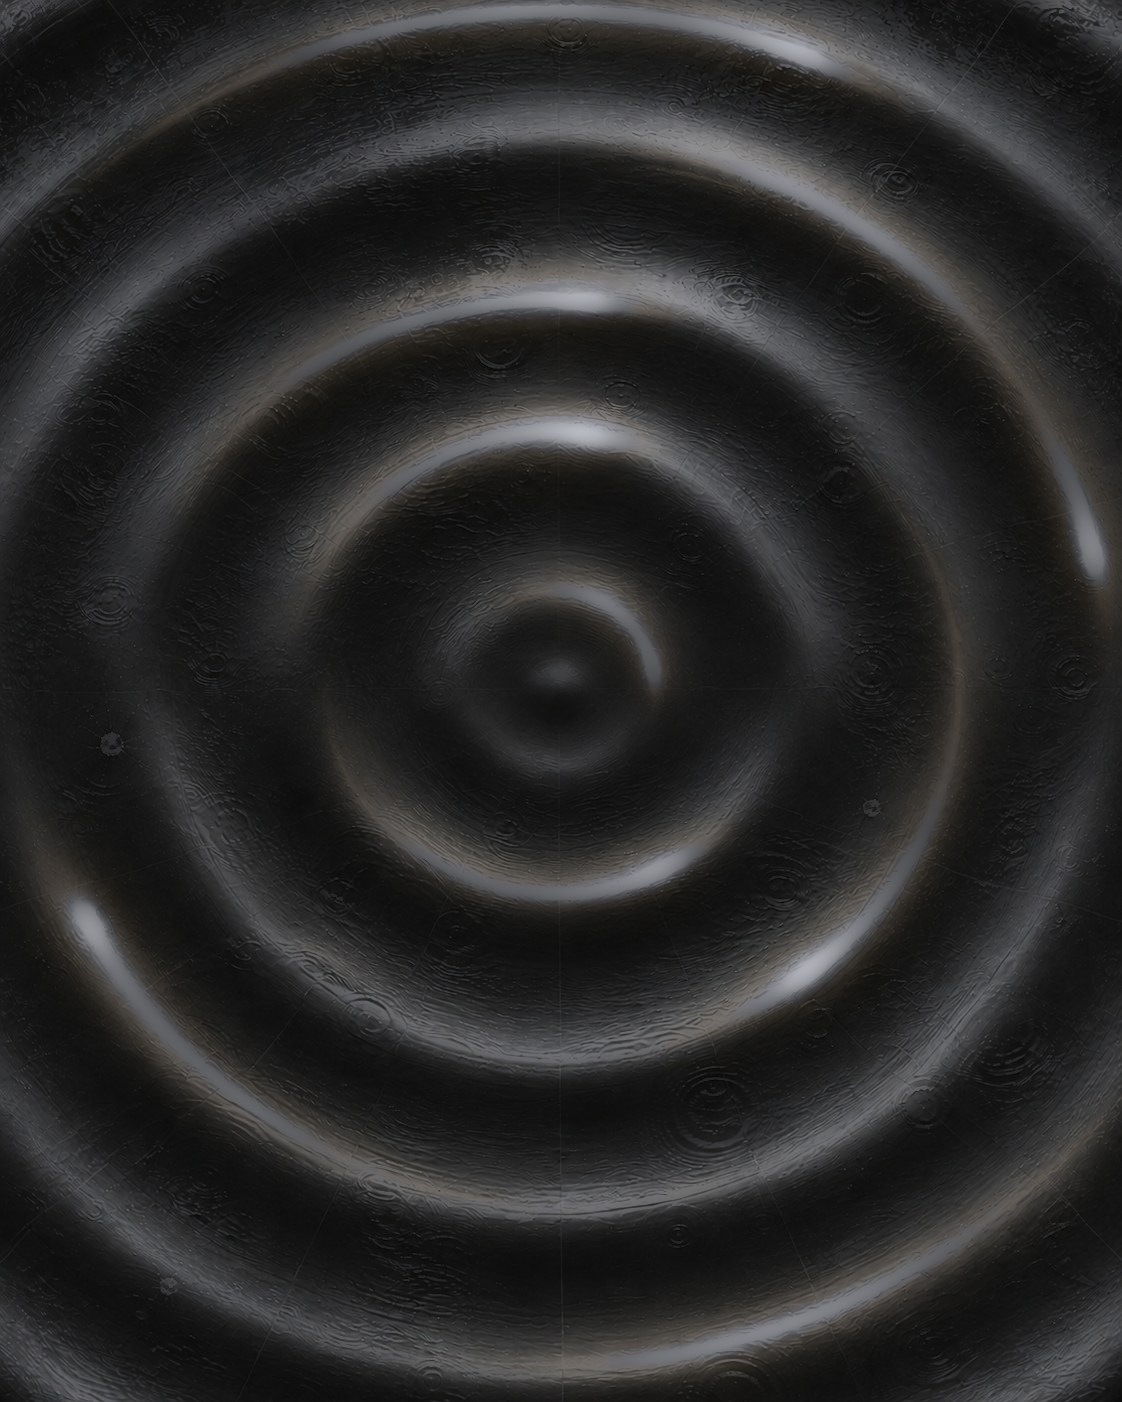
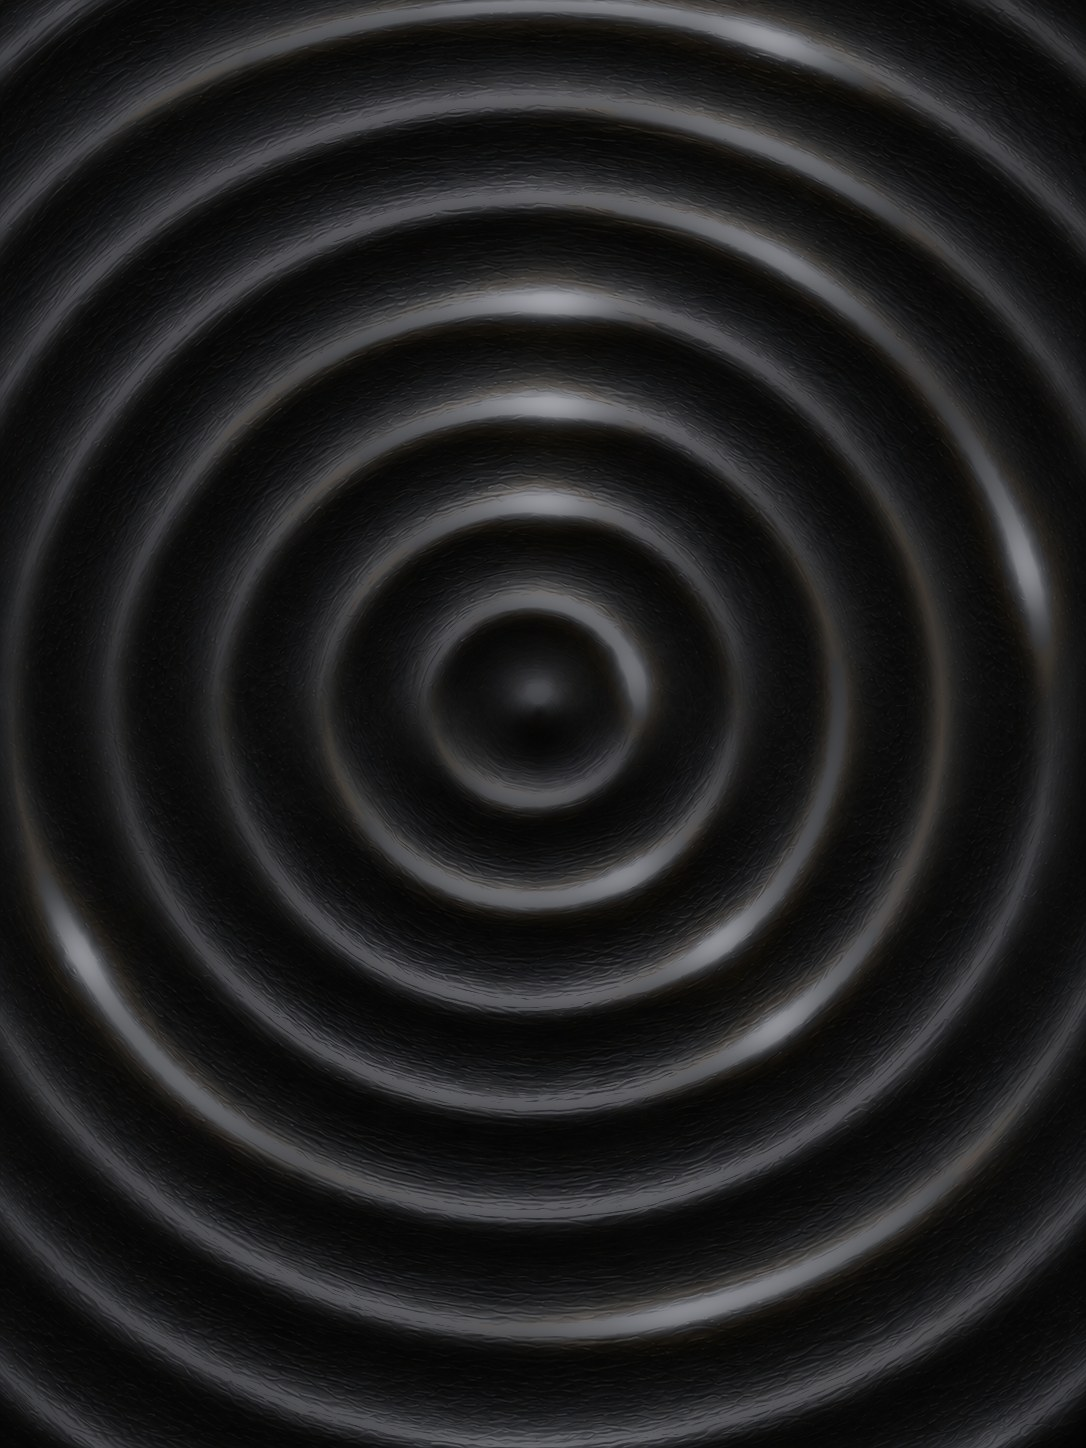
v146: new black ripple floor image; golden light comes and goes at random places
Claude-Session: https://claude.ai/code/session_01Lhs25rWK3XthxTgTdv8F4C

diff --git a/hand-art/index.html b/hand-art/index.html
@@ -213,7 +213,7 @@ body.mview #grab,body.mview #cap,body.mview .dock{display:none}
     <div class="row"><button class="btn" id="pinBtn">비밀번호 바꾸기</button><button class="btn" id="liteBtn">가벼운 모드 켜기</button></div>
     <div class="row"><button class="btn" id="bakOut">마음 백업 내보내기</button><button class="btn" id="bakIn">백업 가져오기</button></div>
     <p class="hint" id="hintTxt"><b>손가락</b> 흐름 그리기 · <b>검지만 펴기</b> 방향 분사<br><b>엄지+검지 집기</b> 소용돌이 · <b>주먹</b> 굳히기<br><b>손가락 톡 굽히기</b> 색이 터짐</p>
-    <p class="hint" id="ver">버전 145</p>
+    <p class="hint" id="ver">버전 146</p>
   </div>
 </div>
 <!-- 마음 남기기: write over the flowing art, then keep it (locked with a 4-digit PIN, on this phone only) or let it flow away -->
@@ -857,7 +857,7 @@ void main(){
   vec2 qf=abs(mod(iuv+1.,2.)-1.);float ef=smoothstep(0.,.045,min(min(qf.x,1.-qf.x),min(qf.y,1.-qf.y)));   /* only when tilted past the photo's edge: it continues mirrored, the fold softened into shade */
   b=vec4((iOk>.5?texture(uI,iuv).rgb*1.08:vec3(.12))*(.45+.55*ef),.3);
   float cr=iOk>.5?texture(uC,iuv).r:0.;
-  vec2 dd=(iuv-vec2(.497,.478))*vec2(.8,1.);float r=length(dd),th=atan(dd.y,dd.x);
+  vec2 dd=(iuv-vec2(.489,.477))*vec2(.75,1.);float r=length(dd),th=atan(dd.y,dd.x);
   /* light drifting around the rings: two layers of soft noise on the circle (one each way) that also slowly change shape,
      seen only where the floor rises into a crest — so it always follows the curves */
   /* waves of light around each ring: a few sines in the angle, each travelling at its own speed and direction and shifted per ring —
@@ -865,6 +865,10 @@ void main(){
   float T=time+.6*sin(time*.21)+.4*sin(time*.37+1.);                 /* speeds that keep changing: never a steady spin */
   float s1=sin(th*1.+T*.95+r*5.),s2=sin(th*2.-T*.72+r*11.+1.3),s3=sin(th*3.+T*1.25-r*7.+2.1),s4=sin(th*1.-T*.55+r*17.+4.);
   float g=smoothstep(.40,.78,.5+.5*(.40*s1+.26*s2+.16*s3+.18*s4));   /* long arcs on most of the rings at once */
+  /* lights come and go at random places: a slowly changing mask over the rings (it drifts round on its own and reshapes), so no
+     part of the floor keeps the same light circling in the same spot */
+  vec2 cm=vec2(cos(th-T*.37),sin(th-T*.37));
+  g*=smoothstep(.30,.62,pvn(cm*1.7+vec2(r*4.5,time*.23)+11.)*.7+pvn(cm*3.1+vec2(r*7.,-time*.31)+3.)*.3);
   gold=(vec3(1.,.62,.24)*1.3*g+vec3(1.,.86,.60)*.75*pow(g,3.))*pow(cr,1.3)*smoothstep(.02,.06,r)*ef;   /* a fine line on the very top of each crest */
  }
  vec3 under=b.rgb*vec3(.84,.92,.86);
@@ -1051,7 +1055,7 @@ let vel,dye,det,detSeed=0,div,curlF,pres,wat,wgrad,aspect=1,dpr=1;
 const WATER_RES=200;
 function res(r){let a=canvas.width/canvas.height;if(a<1)a=1/a;const mn=Math.round(r),mx=Math.round(r*a);
   return canvas.width>canvas.height?[mx,mn]:[mn,mx];}
-const VER_TXT='버전 145';
+const VER_TXT='버전 146';
 /* ===== 가상 회전 잠금: OS가 화면을 돌려도(폴드 내부 화면처럼 잠금 요청을 무시하는 경우) 내용은 기기 기준으로 고정 ===== */
 const appEl=document.getElementById('app');let viewAng=-1,viewIW=0,viewIH=0,lockAng=null,lockKey='',lockP=true,devG=null,rawAng=0;
 function devAngle(){let a=0;try{if(screen.orientation&&typeof screen.orientation.angle==='number')a=screen.orientation.angle;else if(typeof window.orientation==='number')a=window.orientation;}catch(e){}
@@ -1519,7 +1523,7 @@ function pondFrame(dt){
   const u=use('pdRender',[0,0]);gl.uniform1i(u.uH,pdH.r.bind(0));gl.uniform1i(u.uB,pdBed.bind(1));gl.uniform2f(u.px,pdH.r.tx,pdH.r.ty);
   gl.uniform2f(u.tilt,Math.max(-.6,Math.min(.6,viewTilt[0])),Math.max(-.6,Math.min(.6,viewTilt[1])));
   gl.uniform1f(u.aspect,aspect);gl.uniform1f(u.nsc,PD.NORMAL);gl.uniform1f(u.refr,PD.REFRACT);gl.uniform1f(u.refl,PD.REFLECT);gl.uniform1f(u.skyK,PD.SKY_BEND);gl.uniform1f(u.seed,pdSeed);gl.uniform1f(u.ext,PD_EXT);gl.uniform1f(u.sun,pondSun);gl.uniform1f(u.time,pdT);
-  {const ok=pondFloor&&ringsTex&&ringsCrest,ia=1122/1402;gl.uniform1f(u.rings,pondFloor);gl.uniform1f(u.iOk,ok?1:0);
+  {const ok=pondFloor&&ringsTex&&ringsCrest,ia=1086/1448;gl.uniform1f(u.rings,pondFloor);gl.uniform1f(u.iOk,ok?1:0);
    gl.uniform2f(u.iFit,aspect<ia?aspect/ia:1,aspect<ia?1:ia/aspect);   // the photo covers the whole bed (cropped, never stretched)
    gl.activeTexture(gl.TEXTURE2);gl.bindTexture(gl.TEXTURE_2D,ringsTex);gl.uniform1i(u.uI,2);gl.activeTexture(gl.TEXTURE3);gl.bindTexture(gl.TEXTURE_2D,ringsCrest);gl.uniform1i(u.uC,3);}
   {const K=.8,r=1-Math.exp(-dt*3);for(let k=0;k<2;k++){const tgt=gyroOn?Math.max(-PD_EXT,Math.min(PD_EXT,viewTilt[k]*K)):0;pdPan[k]+=(tgt-pdPan[k])*r;}   // tilt = look around the puddle
@@ -1531,7 +1535,7 @@ function loadRings(){if(ringsLoading)return;ringsLoading=true;     // the ripple
     gl.texParameteri(gl.TEXTURE_2D,gl.TEXTURE_MIN_FILTER,gl.LINEAR_MIPMAP_LINEAR);gl.texParameteri(gl.TEXTURE_2D,gl.TEXTURE_MAG_FILTER,gl.LINEAR);
     gl.texParameteri(gl.TEXTURE_2D,gl.TEXTURE_WRAP_S,gl.MIRRORED_REPEAT);gl.texParameteri(gl.TEXTURE_2D,gl.TEXTURE_WRAP_T,gl.MIRRORED_REPEAT);done(t);};
     im.onerror=()=>{ringsLoading=false;};im.src=src;};
-  mk('floors/rings_base.jpg',t=>ringsTex=t);mk('floors/rings_crest.jpg',t=>ringsCrest=t);}
+  mk('floors/rings_base.jpg?v=2',t=>ringsTex=t);mk('floors/rings_crest.jpg?v=2',t=>ringsCrest=t);}
 function setPondFloor(v){pondFloor=v?1:0;if(pondFloor)loadRings();document.querySelectorAll('#pondFloorRow .chip').forEach(b=>b.setAttribute('aria-pressed',+b.dataset.pf===pondFloor));try{localStorage.setItem('hf-pondfloor',pondFloor?'1':'0');}catch(e){}}
 function setPondSun(v){pondSun=v?1:0;document.querySelectorAll('#pondSunRow .chip').forEach(b=>b.setAttribute('aria-pressed',+b.dataset.ps===pondSun));try{localStorage.setItem('hf-pondsun',pondSun?'1':'0');}catch(e){}}
 function setPondRain(v){pondLevel=v;document.querySelectorAll('#pondRow .chip').forEach(b=>b.setAttribute('aria-pressed',+b.dataset.pr===v));try{localStorage.setItem('hf-pondrain',v);}catch(e){}}

diff --git a/hand-art/sw.js b/hand-art/sw.js
@@ -1,7 +1,7 @@
 /* Hand Flow Art — offline cache
    · 화면 파일(index.html 등): 온라인이면 항상 새로 받아옴(network-first), 오프라인이면 저장본 사용
    · AI 모델·런타임(mediapipe/): 한 번 받으면 그대로 재사용(버전 올려도 다시 받지 않음) */
-const CORE = 'hand-flow-core-v147';
+const CORE = 'hand-flow-core-v148';
 const MODEL = 'hand-flow-model-v1';
 const CORE_ASSETS = ['./', './index.html', './manifest.json', './icons/icon-192.png', './icons/icon-512.png', './icons/apple-touch-icon.png', './thumbs/paint.jpg', './thumbs/water.jpg', './thumbs/pond.jpg', './floors/sauna.jpg', './floors/rings_base.jpg', './floors/rings_crest.jpg', './thumbs/light.jpg', './thumbs/cloud.jpg', './thumbs/ink.jpg', './thumbs/halo.jpg'];
 // files no longer used: removed from the phone's saved copy as well

diff --git a/hand-art/README.md b/hand-art/README.md
@@ -73,6 +73,7 @@
 - 버전 123 성능 자동 조절: 프레임이 느려지면(약 42fps 아래로 2초) 마지막 그림 단계의 해상도를 한 단계씩 낮추고(최저 50%) 부드럽게 확대해 보여 줌, 다시 여유가 생기면(약 9초) 한 단계씩 올림. 그림을 지우거나 다시 시작하지 않음. 많이 낮아지면 Aurora는 빛 입자를 65%만 그림
 - 버전 124 기울기 센서 시작 수정: 시작할 때 센서 권한을 묻는 함수를 화면 터치 없이 불러 '거부'로 처리되어 센서가 꺼진 채 시작하고, 첫 터치 뒤에야 켜지던 문제 수정. 안드로이드는 묻지 않고 바로 켜고, 정말 터치로 허락이 필요한 기기(아이폰·아이패드)나 1.5초 동안 센서 값이 하나도 오지 않을 때만 다음 터치에서 허락을 받음
 - 버전 125 기울기 센서 즉시 작동: 일부 기기(WebView 포함)는 화면을 한 번 터치하기 전까지 브라우저의 움직임 이벤트를 아예 보내지 않음. 앱(APK)은 가속도 센서를 직접 읽어 페이지에 전달하고, 크롬에서는 터치가 필요 없는 센서 API(Accelerometer)를 먼저 사용하도록 바꿔 실행 즉시 모든 모드에서 기울기가 적용됨
+- 버전 146 검은 물결 바닥을 새 그림(더 촘촘한 고리)으로 교체, 금빛이 같은 자리에서만 돌지 않도록 천천히 모양이 바뀌며 스스로 도는 마스크로 빛이 여기저기서 나타났다 사라짐
 - 버전 145 검은 물결 바닥: 그림을 약 1.45배 축소(동그라미가 작게, 화면에 사진 전체가 들어옴 · 기울여 사진 밖으로 나가면 거울처럼 이어지고 접힌 자리는 그늘로 부드럽게), 금빛을 더 많은 고리에서 더 길게(긴 호), 흐르는 속도 약 3배 + 속도가 계속 바뀌어 매번 다르게
 - 버전 144 Puddle 바닥 선택 추가(자갈 / 검은 물결): 보내주신 검은 물결 조각 사진을 바닥으로(사진 속 노란 빛은 지우고 floors/rings_base.jpg), 물결 마루만 따로 뽑은 지도(floors/rings_crest.jpg)를 따라 금빛 빛줄기가 저마다 다른 속도·방향으로 고리를 돌며 나타났다 사라짐. 그 위에 물이 있고 비가 내림(비 세기·흐린 밤/햇살 낮과 함께 사용), 기울이면 둘러보기
 - 버전 143 여러 휴대폰 대비:
